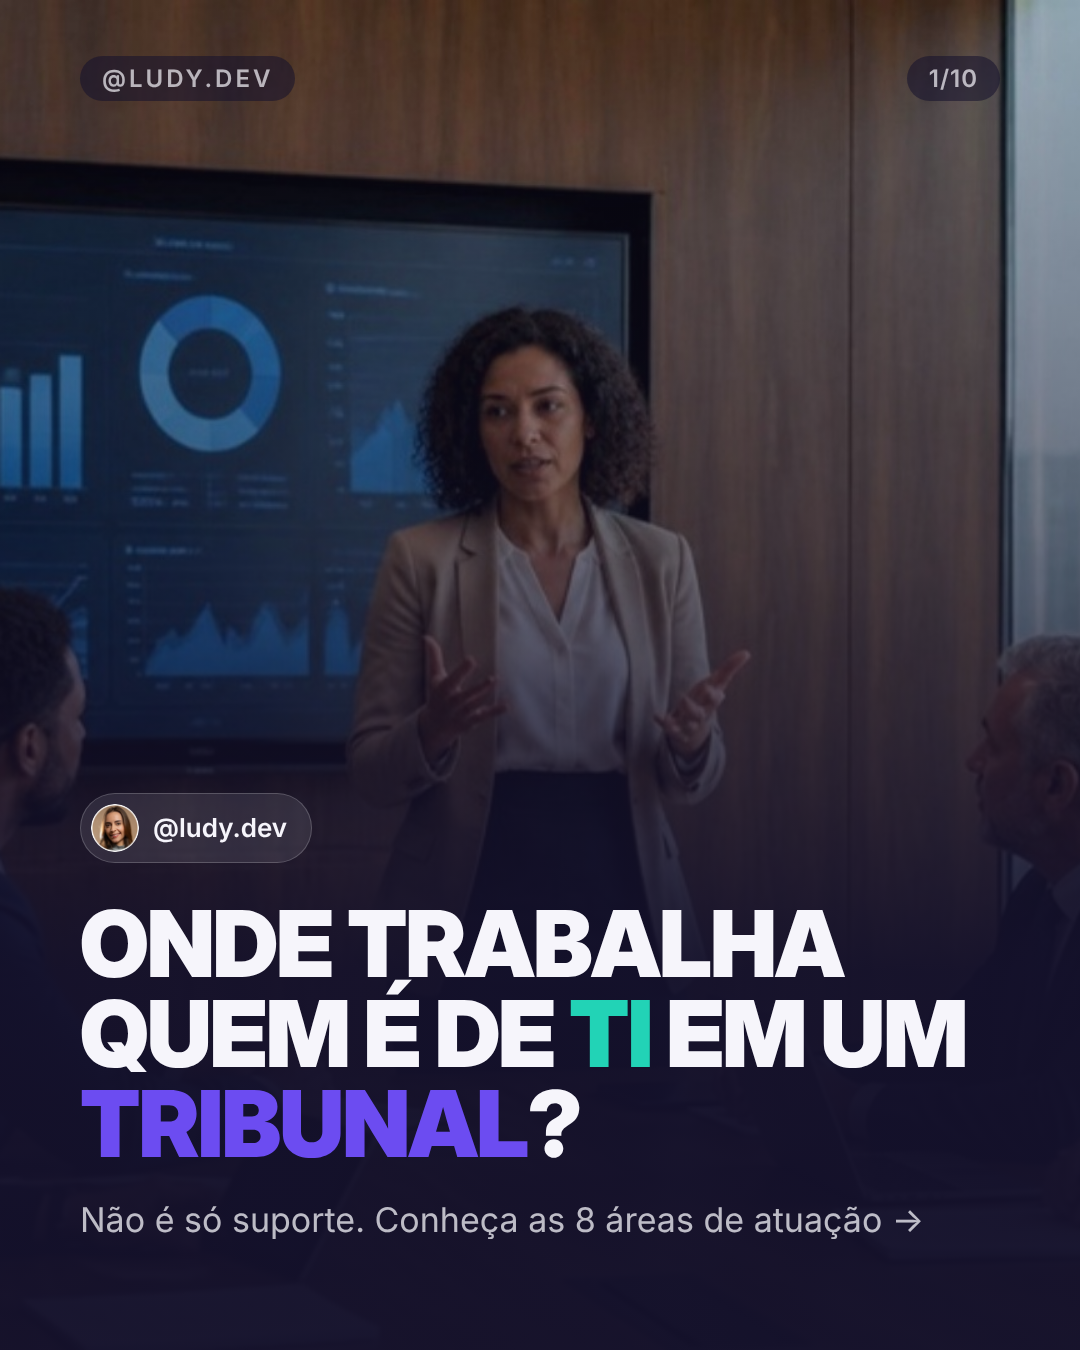
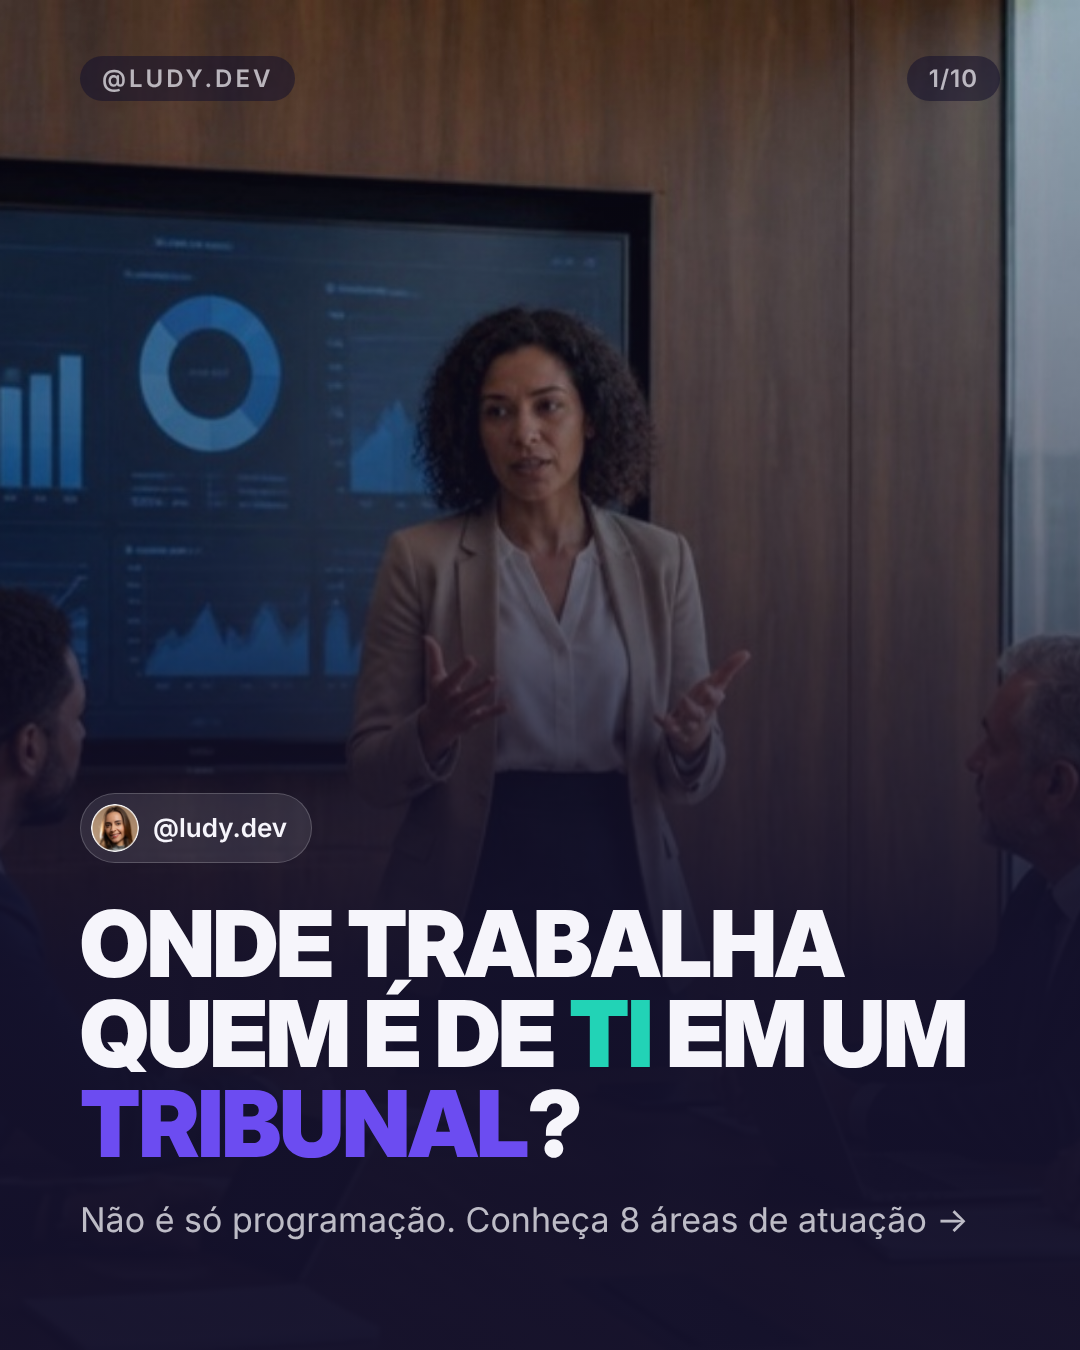
Post 21/10 11h: nova frase na capa e foto de dev sem neon
Claude-Session: https://claude.ai/code/session_016ydKq3ZBWwCP8BaeCJ9gie

Changed region(s): [[0.2139, 0.8711, 0.8556, 0.9333]]

diff --git a/_ferramentas/posts_2110.py b/_ferramentas/posts_2110.py
@@ -15,7 +15,7 @@ AREAS = [
 ]
 T = len(AREAS) + 2
 p1 = [page_a(badge() + '<h1>Onde trabalha quem é de <span class="c">TI</span> em um <span class="v">tribunal</span>?</h1>'
-             '<div class="sub">Não é só suporte. Conheça as 8 áreas de atuação →</div>', 1, T, photo="fotos/areas/governanca.jpg")]
+             '<div class="sub">Não é só programação. Conheça 8 áreas de atuação →</div>', 1, T, photo="fotos/areas/governanca.jpg")]
 for i, (icon, nome, desc, f) in enumerate(AREAS, 2):
     p1.append(page_a(f'<span style="font-size:26px;letter-spacing:2px;color:#22D3B6;font-weight:700">ÁREA {i-1} DE 8</span>'
                      f'<h2 style="margin-top:14px">{icon} {nome}</h2><p>{desc}</p>', i, T, top_photo=f"fotos/areas/{f}.jpg", top_h=800))
